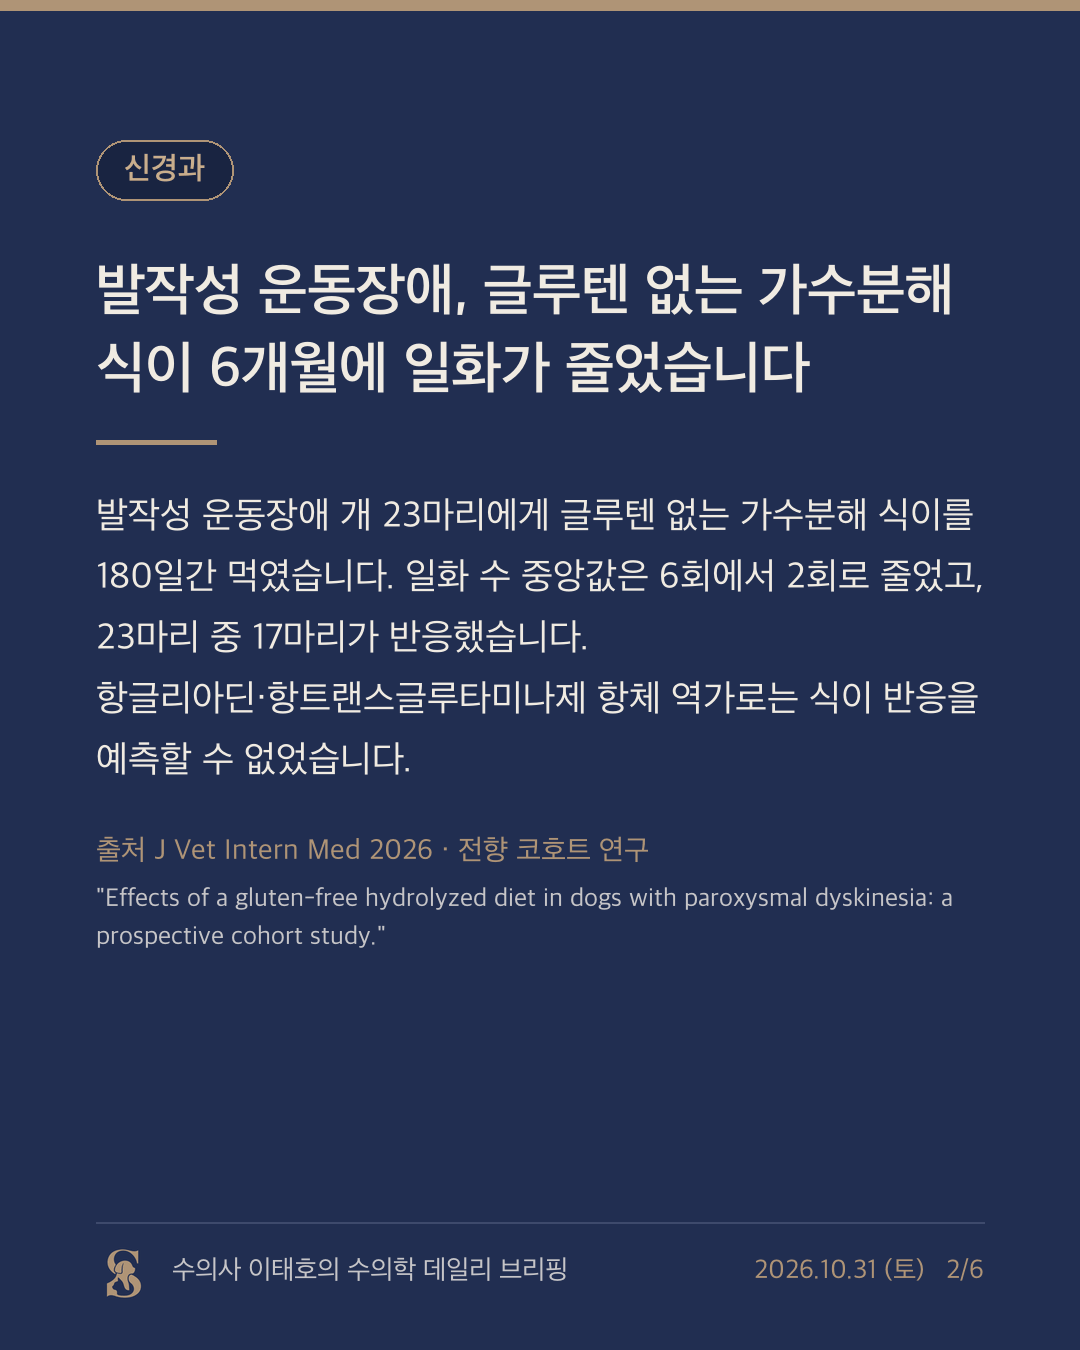
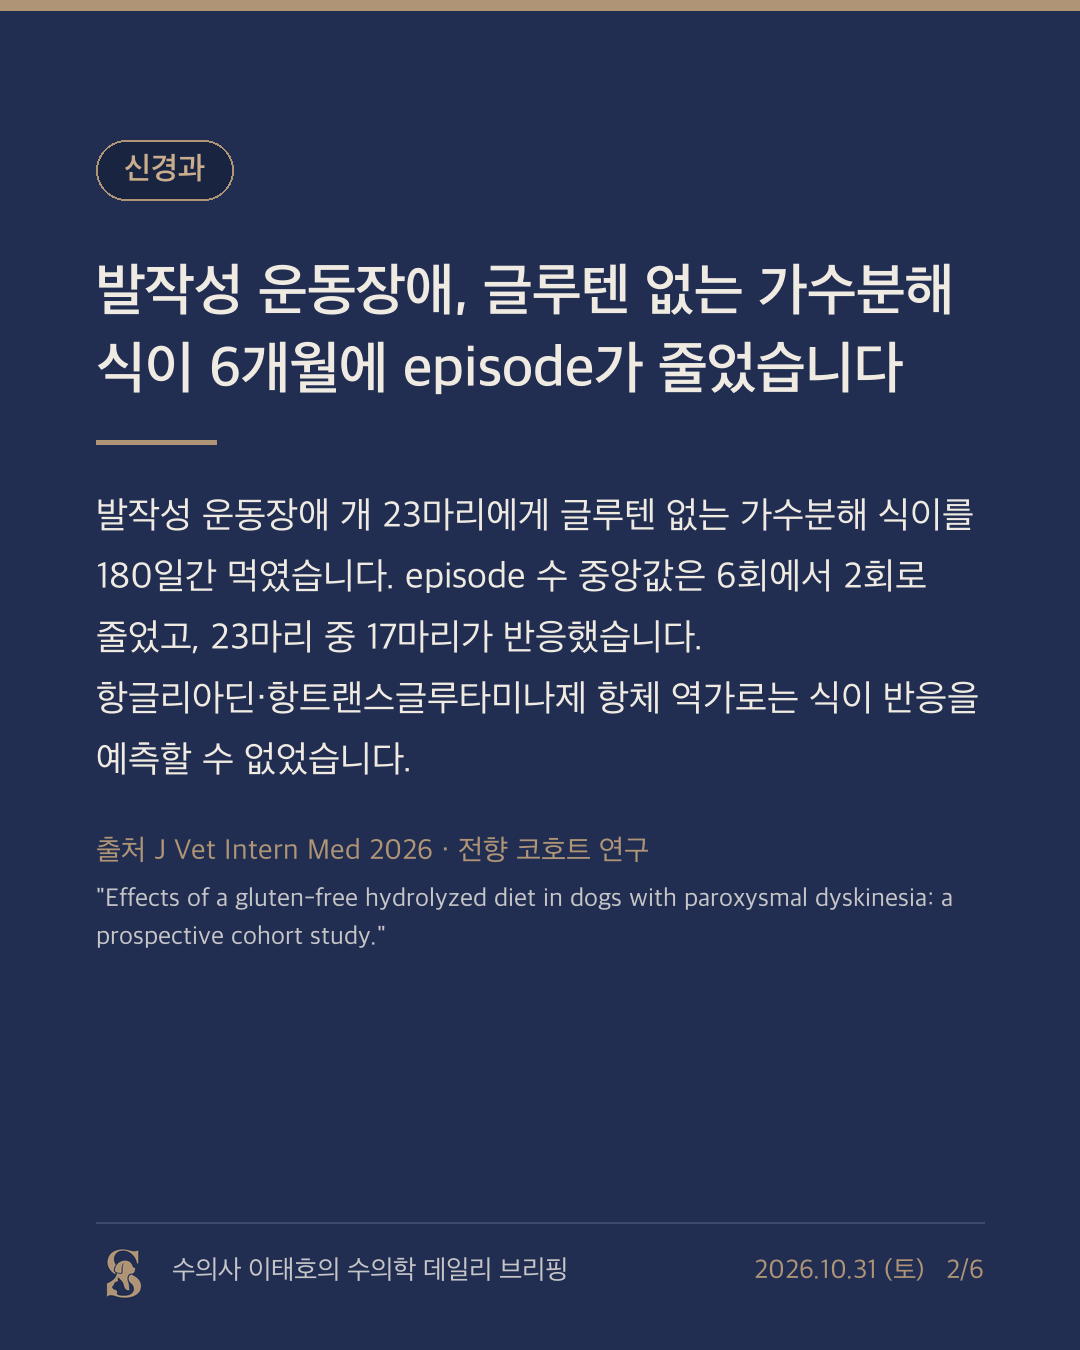
브리핑 2026-10-31 episode 영문 표기

Changed region(s): [[0.0917, 0.4044, 0.9167, 0.4978], [0.3667, 0.2489, 0.8556, 0.3111]]

diff --git a/reports/2026-10-31.md b/reports/2026-10-31.md
@@ -6,13 +6,13 @@
 
 ## 신경과
 
-### 발작성 운동장애 개, 글루텐 없는 가수분해 식이 6개월에 발작 빈도가 중앙값 6회에서 2회로
+### 발작성 운동장애 개, 글루텐 없는 가수분해 식이 6개월에 episode 수가 중앙값 6회에서 2회로
 
-발작성 운동장애(PD)는 의식은 멀쩡한 채 몸이 꼬이고 뒤틀리는 일화가 반복되는 운동장애로, 뇌전증 발작과 감별이 까다롭다. 원인으로 글루텐 민감성이 제기돼 왔지만 여러 품종을 대상으로 한 전향 연구는 없었는데, 볼로냐 대학을 중심으로 한 이탈리아 다기관 연구진이 보호자가 기르는 PD 개 23마리에게 글루텐 없는 가수분해 식이를 먹이며 0일, 90일, 180일에 일화 빈도와 위장관 증상, 항글리아딘 IgG(AGA IgG)·항트랜스글루타미나제-2 IgA(TG-2 IgA) 역가를 전향적으로 추적했다.
+발작성 운동장애(PD)는 의식은 멀쩡한 채 몸이 꼬이고 뒤틀리는 episode가 반복되는 운동장애로, 뇌전증 발작과 감별이 까다롭다. 원인으로 글루텐 민감성이 제기돼 왔지만 여러 품종을 대상으로 한 전향 연구는 없었는데, 볼로냐 대학을 중심으로 한 이탈리아 다기관 연구진이 보호자가 기르는 PD 개 23마리에게 글루텐 없는 가수분해 식이를 먹이며 0일, 90일, 180일에 episode 빈도와 위장관 증상, 항글리아딘 IgG(AGA IgG)·항트랜스글루타미나제-2 IgA(TG-2 IgA) 역가를 전향적으로 추적했다.
 
-일화 수 중앙값은 시작 시점 6회(범위 2–60)에서 180일째 2회(범위 0–10)로 줄었다(P = .0003). 180일째 23마리 중 17마리가 반응군이었고, 이 가운데 5마리는 일화가 완전히 사라졌으며 12마리는 50% 이상 줄었다. 위장관 증상이 있던 개는 시작 시점 15마리에서 180일째 6마리로 줄었고, 그중 구토와 설사의 감소는 유의했다(P = .01). 반면 두 항체 역가는 어느 시점에서도 일화 빈도와 상관이 없었고 식이 전후로 유의하게 변하지도 않았다.
+episode 수 중앙값은 시작 시점 6회(범위 2–60)에서 180일째 2회(범위 0–10)로 줄었다(P = .0003). 180일째 23마리 중 17마리가 반응군이었고, 이 가운데 5마리는 episode가 완전히 사라졌으며 12마리는 50% 이상 줄었다. 위장관 증상이 있던 개는 시작 시점 15마리에서 180일째 6마리로 줄었고, 그중 구토와 설사의 감소는 유의했다(P = .01). 반면 두 항체 역가는 어느 시점에서도 episode 빈도와 상관이 없었고 식이 전후로 유의하게 변하지도 않았다.
 
-**임상적 의미** — PD로 의심되는 개에게 글루텐 없는 가수분해 식이를 시험해 볼 근거가 하나 더 쌓였다. 위장관 증상이 함께 있는 개가 23마리 중 15마리였다는 점도 문진에서 챙길 대목이다. 다만 항체 검사로 식이 반응을 미리 가려내려는 시도는 이 자료로는 쓸모가 없었다. 대조군 없는 23마리 코호트라, 일화 빈도 감소가 식이 때문인지 자연 경과인지를 이 연구만으로 가를 수는 없다.
+**임상적 의미** — PD로 의심되는 개에게 글루텐 없는 가수분해 식이를 시험해 볼 근거가 하나 더 쌓였다. 위장관 증상이 함께 있는 개가 23마리 중 15마리였다는 점도 문진에서 챙길 대목이다. 다만 항체 검사로 식이 반응을 미리 가려내려는 시도는 이 자료로는 쓸모가 없었다. 대조군 없는 23마리 코호트라, episode 빈도 감소가 식이 때문인지 자연 경과인지를 이 연구만으로 가를 수는 없다.
 
 - **출처** — Journal of Veterinary Internal Medicine, 2026 · [DOI 10.1093/jvimsj/aalag255](https://doi.org/10.1093/jvimsj/aalag255)
 - **원제** — *Effects of a gluten-free hydrolyzed diet in dogs with paroxysmal dyskinesia: a prospective cohort study.*
